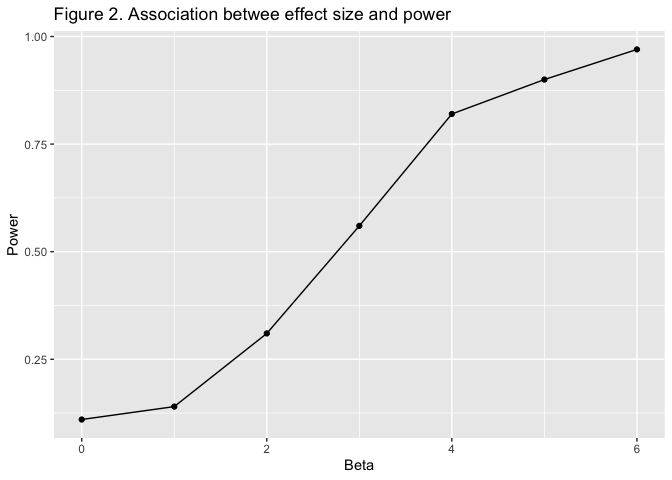
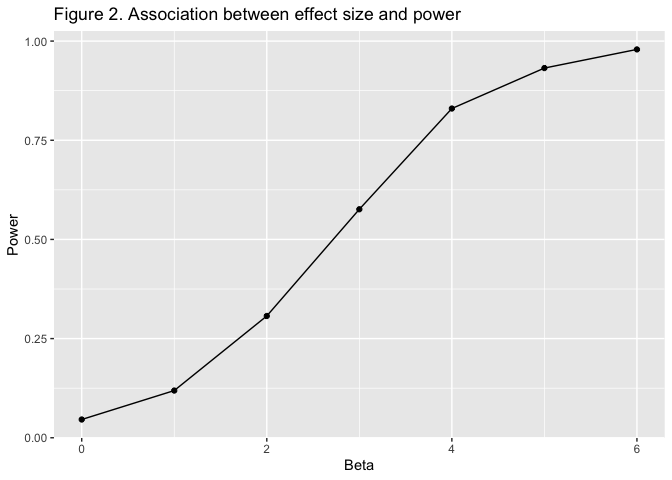
Finished p3 and did p2 with 1000 datasets. 10000 crashes my Rstudio but I will try again

diff --git a/p8105_hw5_az2356.md b/p8105_hw5_az2356.md
@@ -11,14 +11,14 @@ Amelia Zhao
 library(tidyverse)
 ```
 
-    ## ── Attaching packages ──────────────────────────────── tidyverse 1.2.1 ──
+    ## ── Attaching packages ──────────────────────────────────────────────────────────── tidyverse 1.2.1 ──
 
     ## ✔ ggplot2 3.2.1          ✔ purrr   0.3.2     
     ## ✔ tibble  2.1.3          ✔ dplyr   0.8.3     
     ## ✔ tidyr   1.0.0.9000     ✔ stringr 1.4.0     
     ## ✔ readr   1.3.1          ✔ forcats 0.4.0
 
-    ## ── Conflicts ─────────────────────────────────── tidyverse_conflicts() ──
+    ## ── Conflicts ─────────────────────────────────────────────────────────────── tidyverse_conflicts() ──
     ## ✖ dplyr::filter() masks stats::filter()
     ## ✖ dplyr::lag()    masks stats::lag()
 
@@ -123,13 +123,13 @@ sim_regression = function(n = 30, beta0 = 2, beta1 = 0) {
     )
 }
 
-sim_results = rerun(100, sim_regression(beta1 = 0)) %>% 
+sim_results = rerun(1000, sim_regression(beta1 = 0)) %>% 
   bind_rows()
 
 newsim_results = 
   tibble(beta11 = c(0,1,2,3,4,5,6)) %>% 
   mutate(
-    output_lists = map(.x = beta11, ~rerun(100, sim_regression(beta1 = .x))),
+    output_lists = map(.x = beta11, ~rerun(1000, sim_regression(beta1 = .x))),
     estimate_dfs = map(output_lists, bind_rows)) %>% 
   select(-output_lists) %>% 
   unnest(estimate_dfs)
@@ -143,7 +143,7 @@ newsim_results %>%
   group_by(beta11) %>% 
   summarise(prop = mean(p_value)) %>% 
   ggplot(aes(x = beta11, y = prop)) + geom_point() +geom_line() + labs(
-  title = "Figure 2. Association betwee effect size and power",
+  title = "Figure 2. Association between effect size and power",
   x = "Beta",
   y = "Power") 
 ```
@@ -152,3 +152,26 @@ newsim_results %>%
 
 As shown in Figure 2, as the effect size increases, the power of the
 study increases.
+
+``` r
+plotdata <- newsim_results %>%
+  group_by(beta11) %>% 
+  summarise(avg = mean(beta1_hat))
+
+reject = newsim_results %>%
+  filter(p_value < 0.05) %>% 
+  group_by(beta11) %>% 
+  summarize(avg2 = mean(beta1_hat))
+
+ggplot(data = plotdata, aes(x = beta11, y = avg)) + geom_point() + geom_line(data = reject, aes(x = beta11, y = avg2, color = "Null rejected")) + labs(
+  title = "Figure 3. Association between average estimate of beta and the true beta coefficient",
+  x = "True beta",
+  y = "Average beta estimate") 
+```
+
+![](p8105_hw5_az2356_files/figure-gfm/unnamed-chunk-4-1.png)<!-- --> As
+shown in Figure 3, when the null is rejected, the average estimates of
+beta are not equal to the true values or beta. In general, when the null
+is rejected, the estimates are high when the true beta or estimate is
+greater than or equal to 1. The estimate is more accurate as the true
+beta increases.
